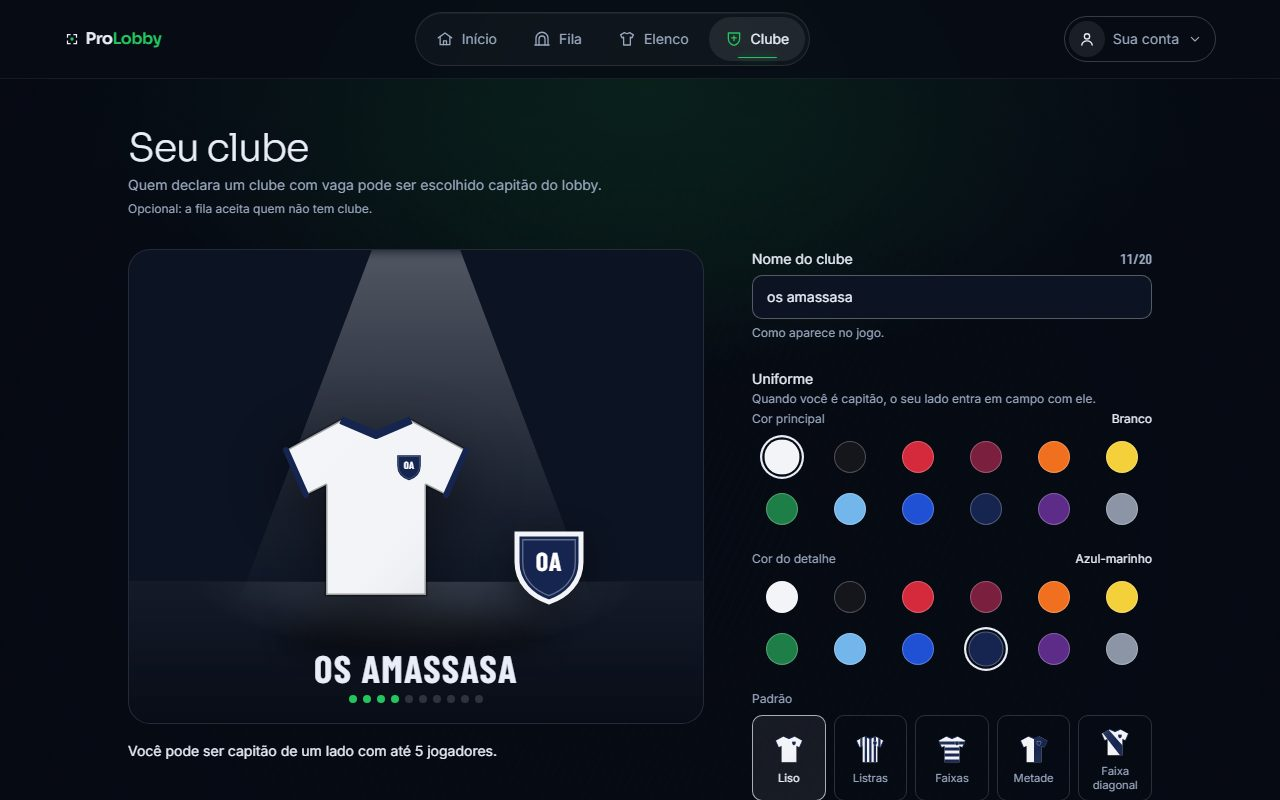
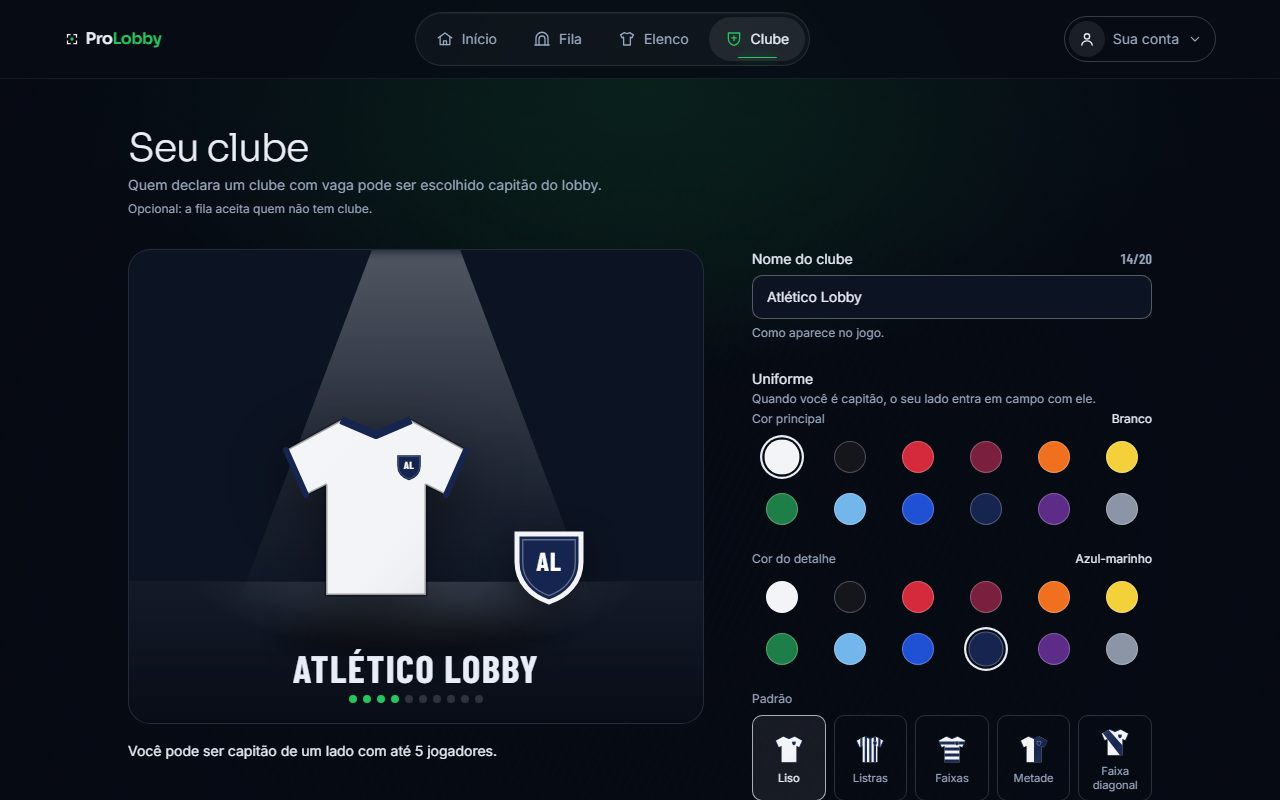
docs: readme com link relativo dos termos e prints sem dado de teste

Changed region(s): [[0.2188, 0.8125, 0.4375, 0.875], [0.5938, 0.3438, 0.6875, 0.375], [0.4062, 0.6875, 0.4375, 0.7188]]

diff --git a/README.md b/README.md
@@ -23,7 +23,7 @@ do EA FC; a ProLobby monta o jogo, coordena pelo Discord e mede o que aconteceu.
 
 | Etapa | O que acontece |
 |---|---|
-| **1. Conta** | E-mail verificado, pergunta de segurança pra recuperar sem e-mail, aceite dos [Termos](https://github.com/ljborgess/ProLobby.com/blob/dev/docs/produto/04-governanca/03-termos.md) |
+| **1. Conta** | E-mail verificado, pergunta de segurança pra recuperar sem e-mail, aceite dos [Termos](docs/produto/04-governanca/03-termos.md) |
 | **2. Personagem** | Até 5 por conta, um por posição. O print da tela `Archetypes` prova a posse; a moderação confere até o OCR entrar |
 | **3. Discord** | Vínculo por OAuth2. Sair do servidor bloqueia a fila até voltar |
 | **4. Fila** | Entrada individual por posição. Dois lados equilibrados por elo; a IA do jogo completa as vagas vazias. A fila pausa quando não dá pra coordenar mais lobbies |
